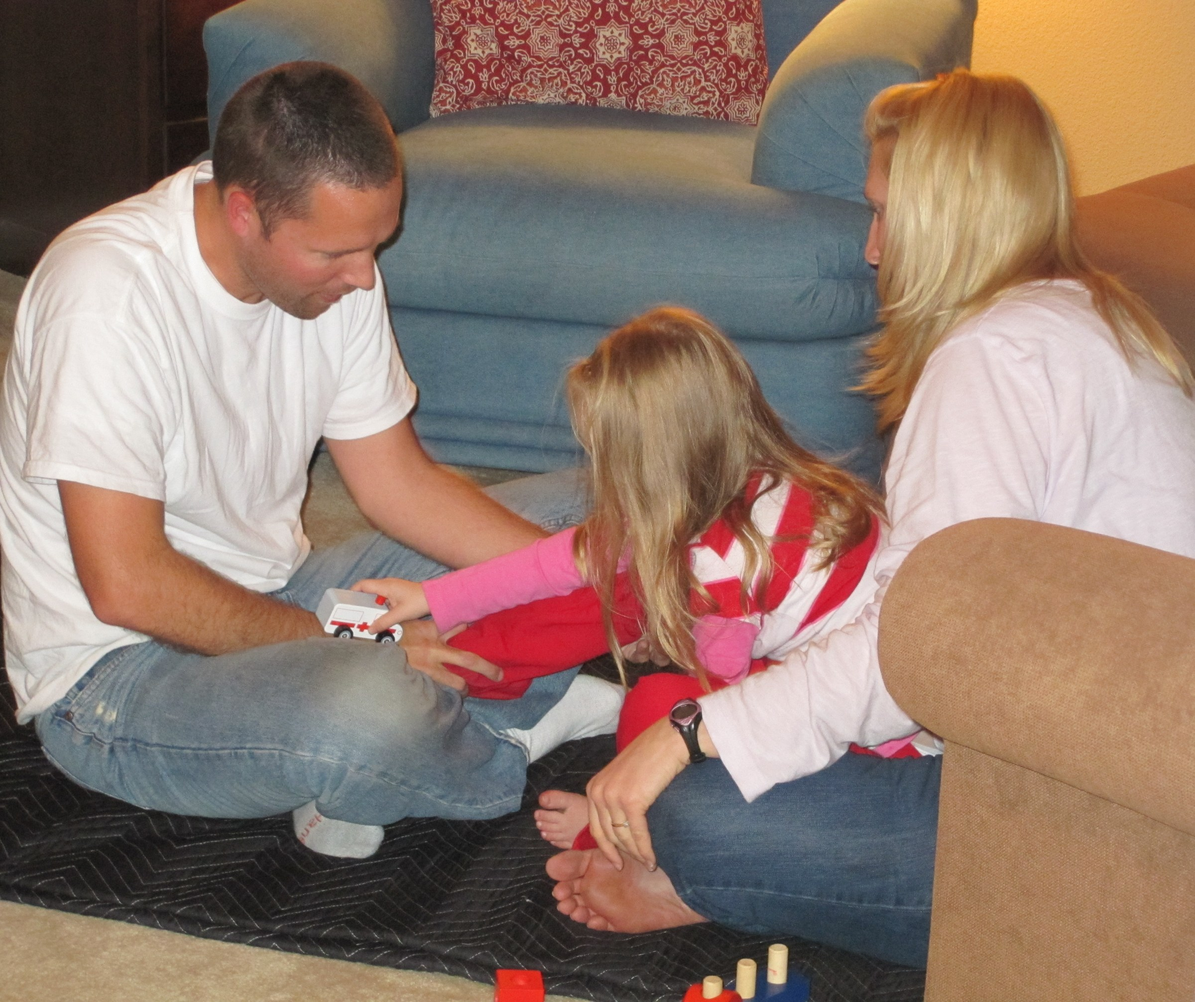
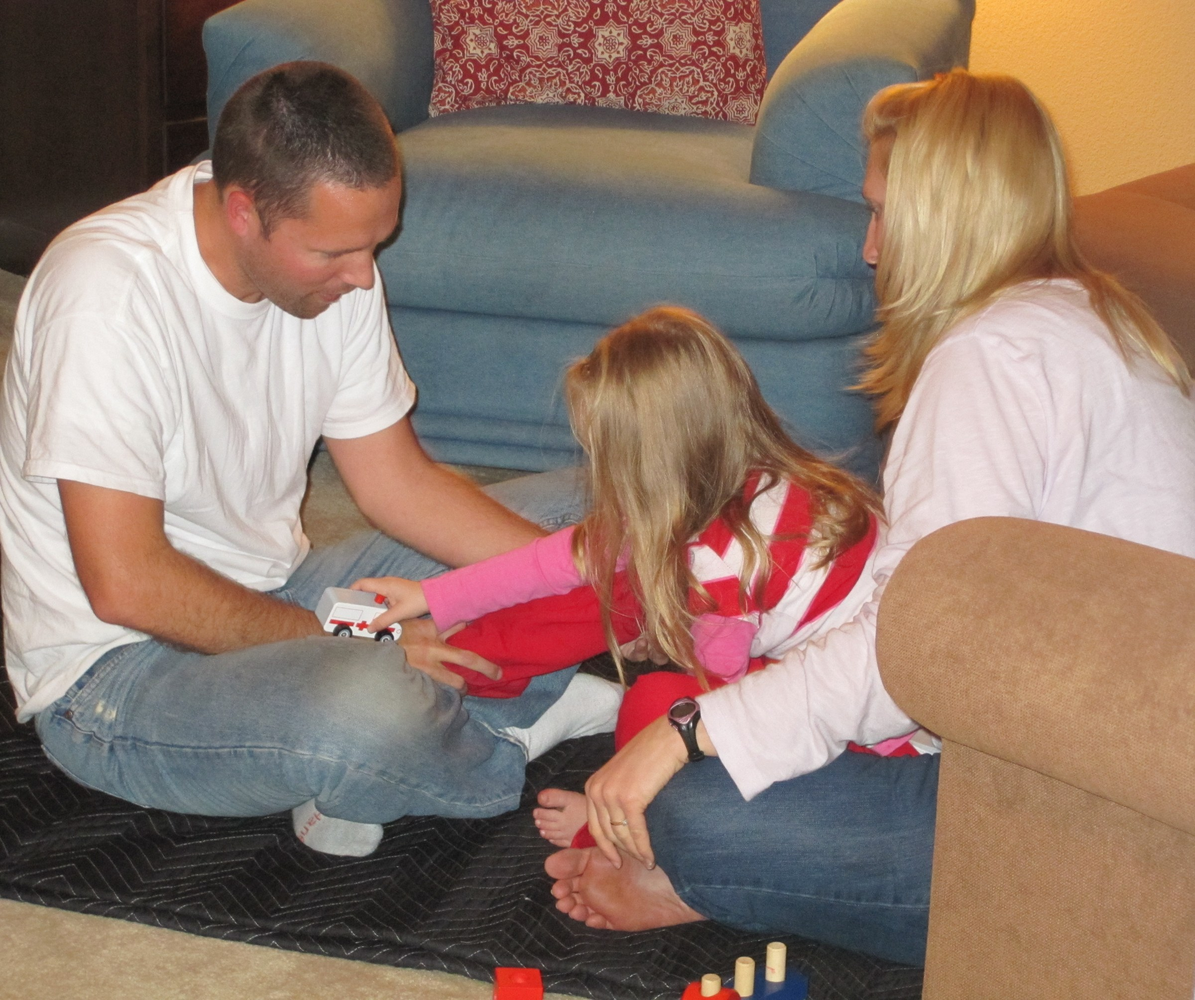
Children photos: minimal wedge trim, 6:5 frames so Bryan, the child, and the mom all stay in view

diff --git a/src/app/children/page.tsx b/src/app/children/page.tsx
@@ -43,12 +43,12 @@ export default function ChildrenPage() {
             </div>
           </div>
           <div>
-            <div className="aspect-[4/5] rounded-3xl overflow-hidden shadow-lg">
+            <div className="aspect-[6/5] rounded-3xl overflow-hidden shadow-lg">
               <Image
                 src="/images/fs-session-child-toys.jpg"
                 alt="Bryan Thunstrom working with a child in a Functional Synthesis session while mother participates"
-                width={600}
-                height={750}
+                width={720}
+                height={600}
                 className="object-cover w-full h-full"
                 priority
               />
@@ -141,7 +141,7 @@ export default function ChildrenPage() {
             </p>
           </div>
           <div className="grid grid-cols-1 md:grid-cols-3 gap-6 mt-12">
-            <div className="aspect-[4/3] rounded-2xl overflow-hidden shadow-md">
+            <div className="aspect-[6/5] rounded-2xl overflow-hidden shadow-md">
               <Image
                 src="/images/fs-session-child-toys.jpg"
                 alt="Functional Synthesis session — practitioner and child exploring movement through play with mother present"
@@ -150,7 +150,7 @@ export default function ChildrenPage() {
                 className="object-cover w-full h-full"
               />
             </div>
-            <div className="aspect-[4/3] rounded-2xl overflow-hidden shadow-md">
+            <div className="aspect-[6/5] rounded-2xl overflow-hidden shadow-md">
               <Image
                 src="/images/fs-session-child-reading.jpg"
                 alt="Practitioner reading with child during Functional Synthesis session — learning through connection"
@@ -159,7 +159,7 @@ export default function ChildrenPage() {
                 className="object-cover w-full h-full"
               />
             </div>
-            <div className="aspect-[4/3] rounded-2xl overflow-hidden shadow-md">
+            <div className="aspect-[6/5] rounded-2xl overflow-hidden shadow-md">
               <Image
                 src="/images/fs-session-child-ambulance.jpg"
                 alt="Child engaging with toys during a gentle NeuroMovement session with parents present"

diff --git a/src/app/functional-synthesis/page.tsx b/src/app/functional-synthesis/page.tsx
@@ -169,7 +169,7 @@ export default function FunctionalSynthesisPage() {
             </div>
           </div>
           <div>
-            <div className="aspect-[4/3] rounded-3xl overflow-hidden shadow-lg">
+            <div className="aspect-[6/5] rounded-3xl overflow-hidden shadow-lg">
               <Image
                 src="/images/fs-session-child-toys.jpg"
                 alt="Bryan Thunstrom working with a child in a Functional Synthesis session while mother participates"
